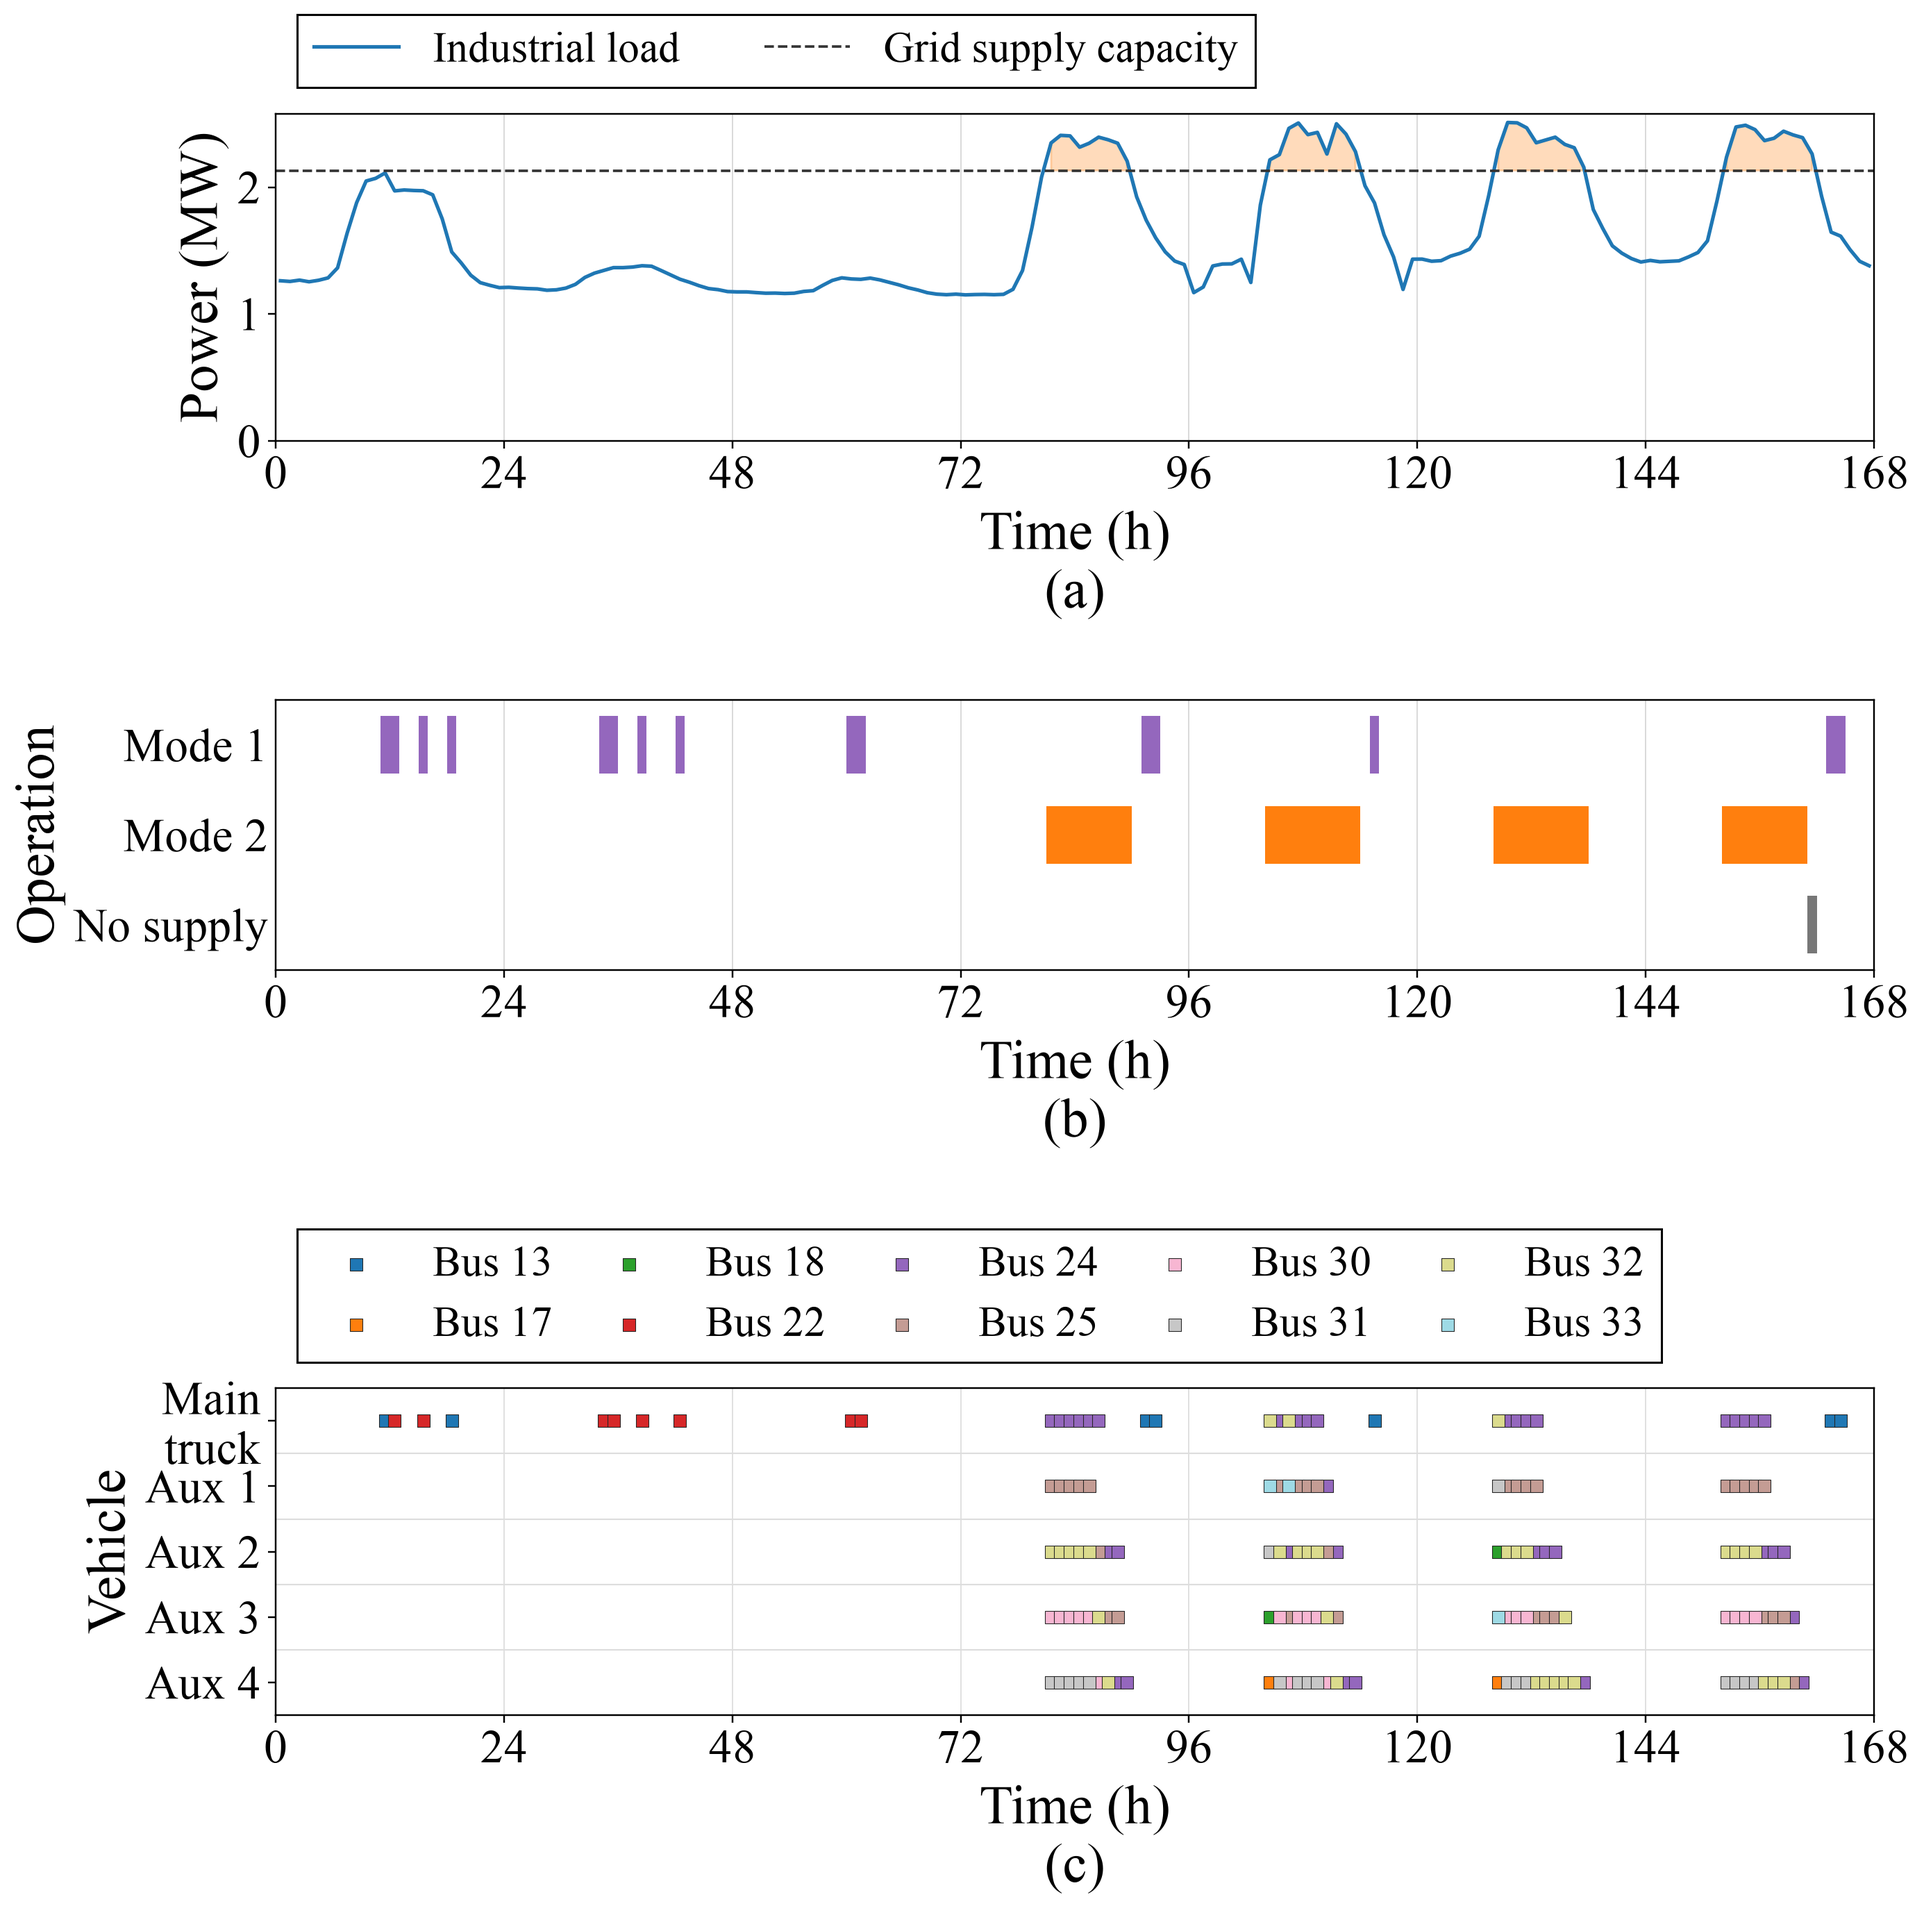
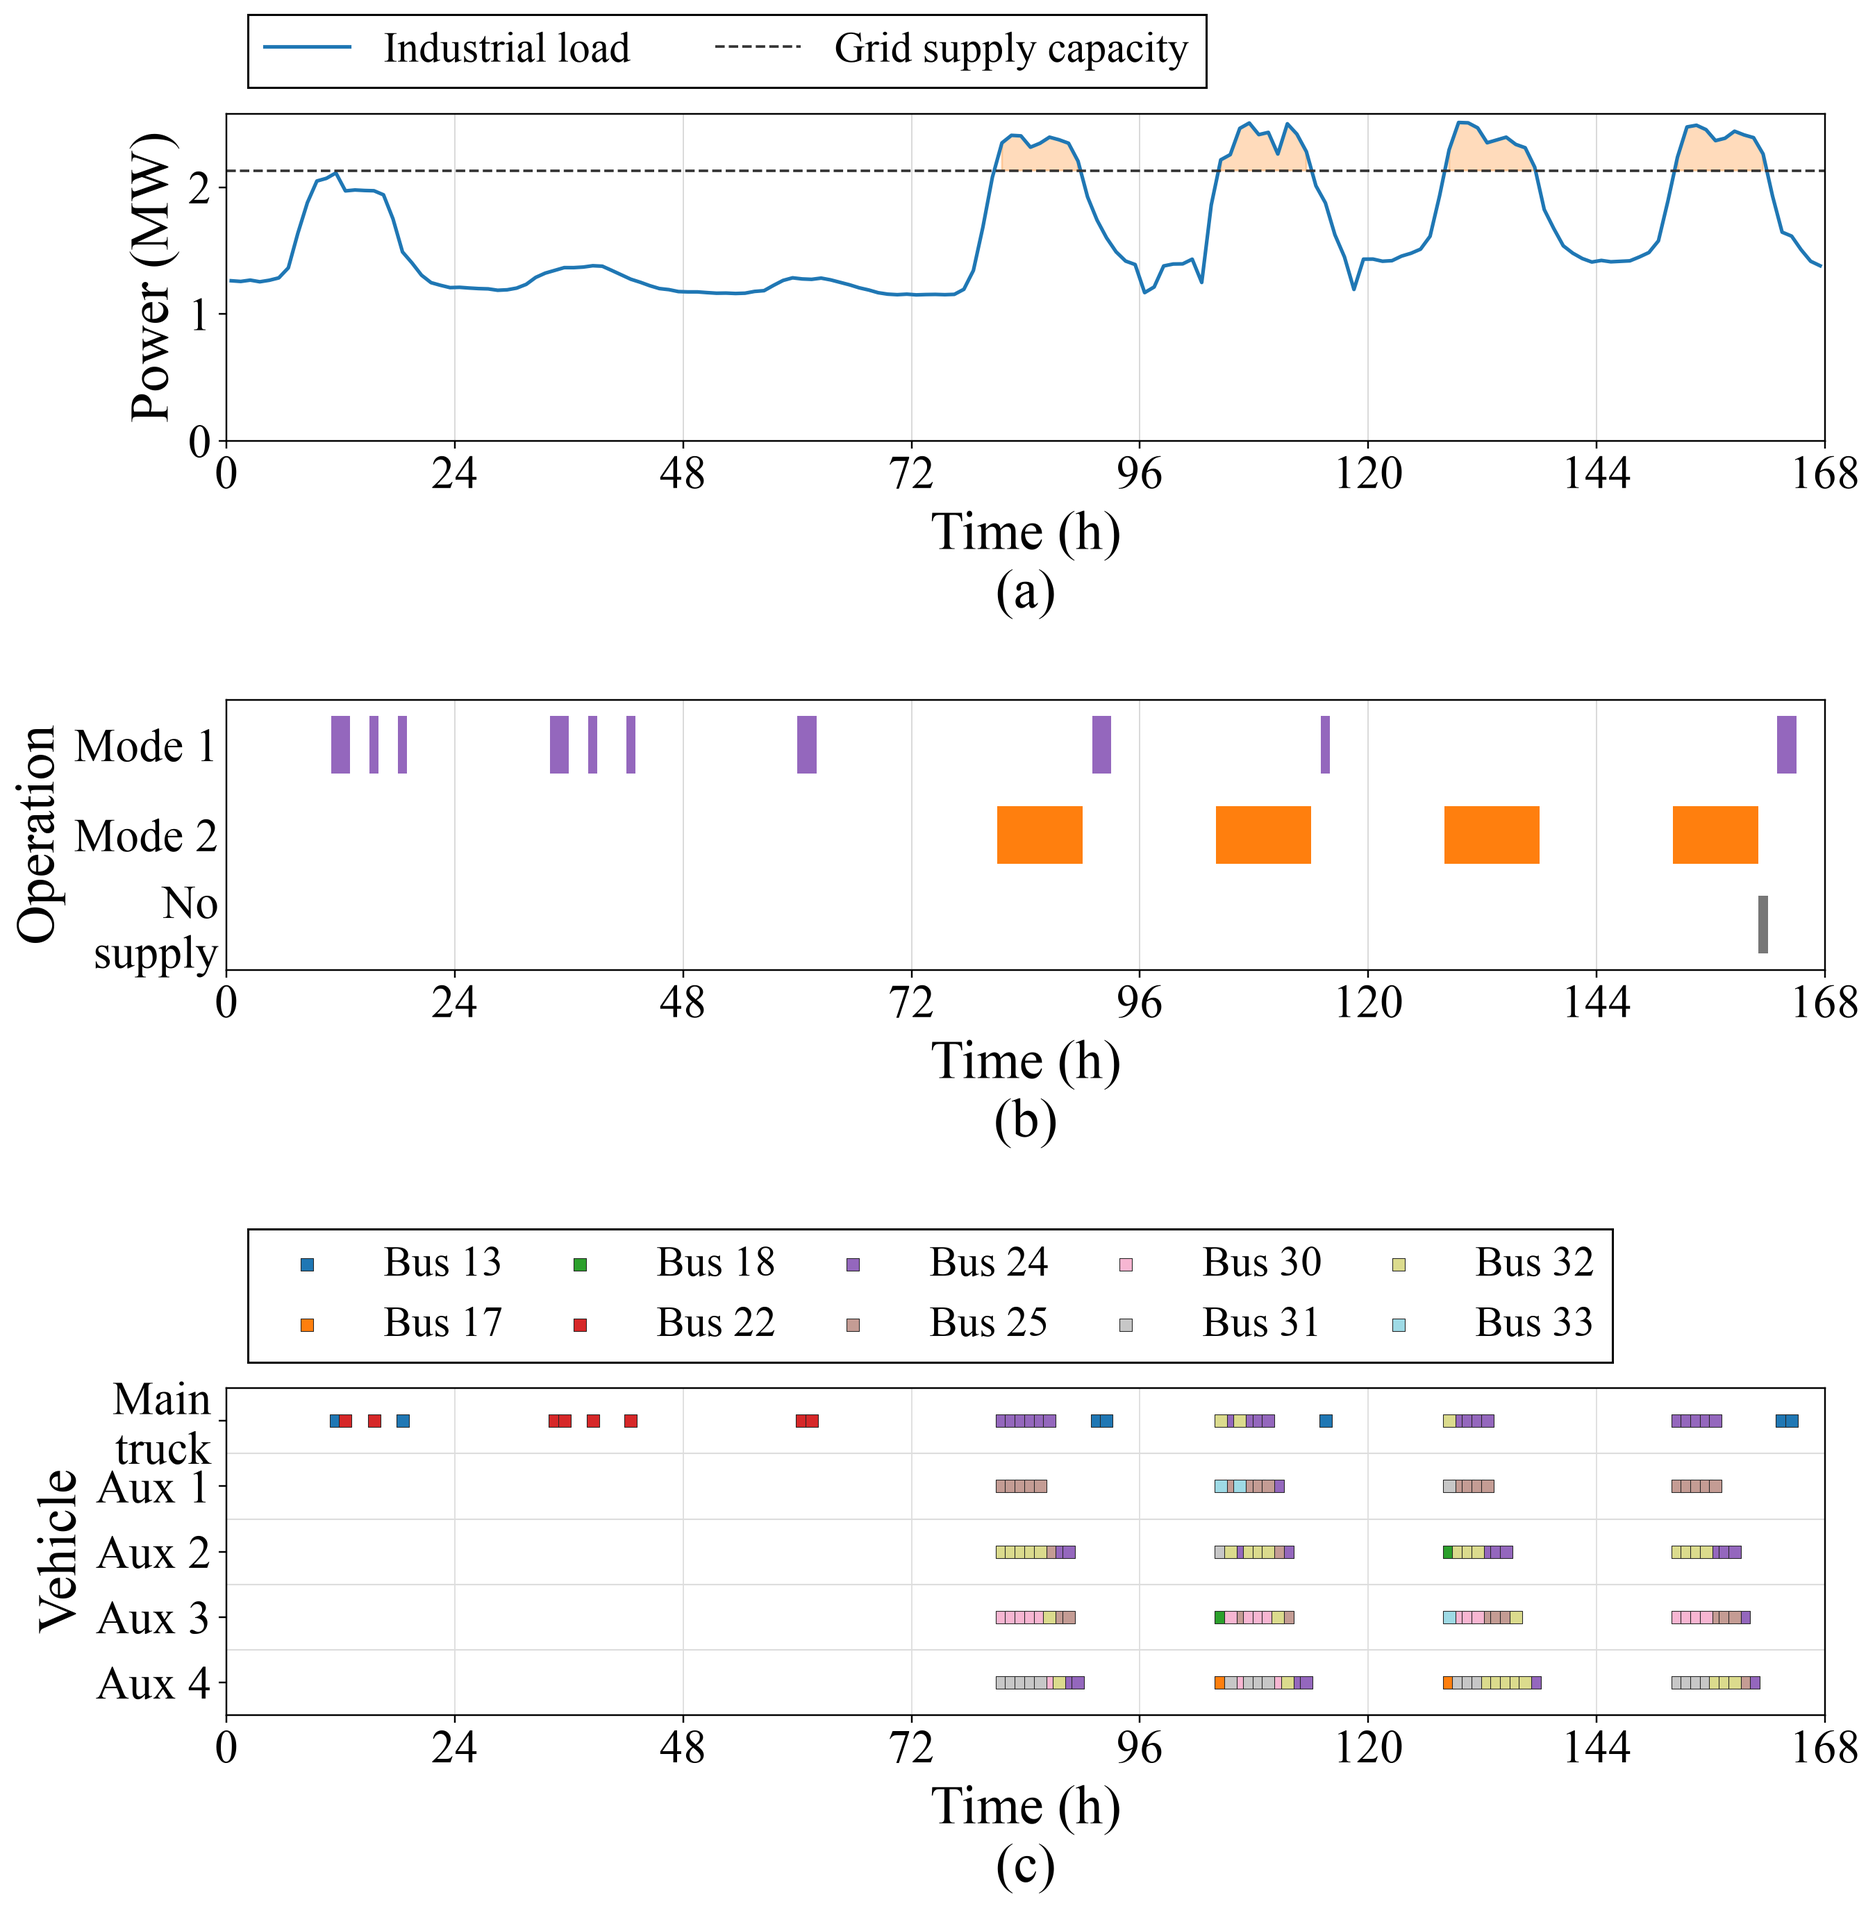
Wrap Figure 13 no-supply label

diff --git a/nodal_redesign_v2/plots.py b/nodal_redesign_v2/plots.py
@@ -128,7 +128,7 @@ def _draw_operation_timeline(axis: plt.Axes, run: CaseRun) -> None:
     ]
     unavailable = (hourly.mode2_trigger & ~hourly.supply_active).to_numpy(dtype=bool)
     if unavailable.any():
-        states.append(("No supply", unavailable, "#777777"))
+        states.append(("No\nsupply", unavailable, "#777777"))
     for row, (_, mask, color) in enumerate(states):
         axis.broken_barh(
             [(start, stop - start) for start, stop in _intervals(mask)],
